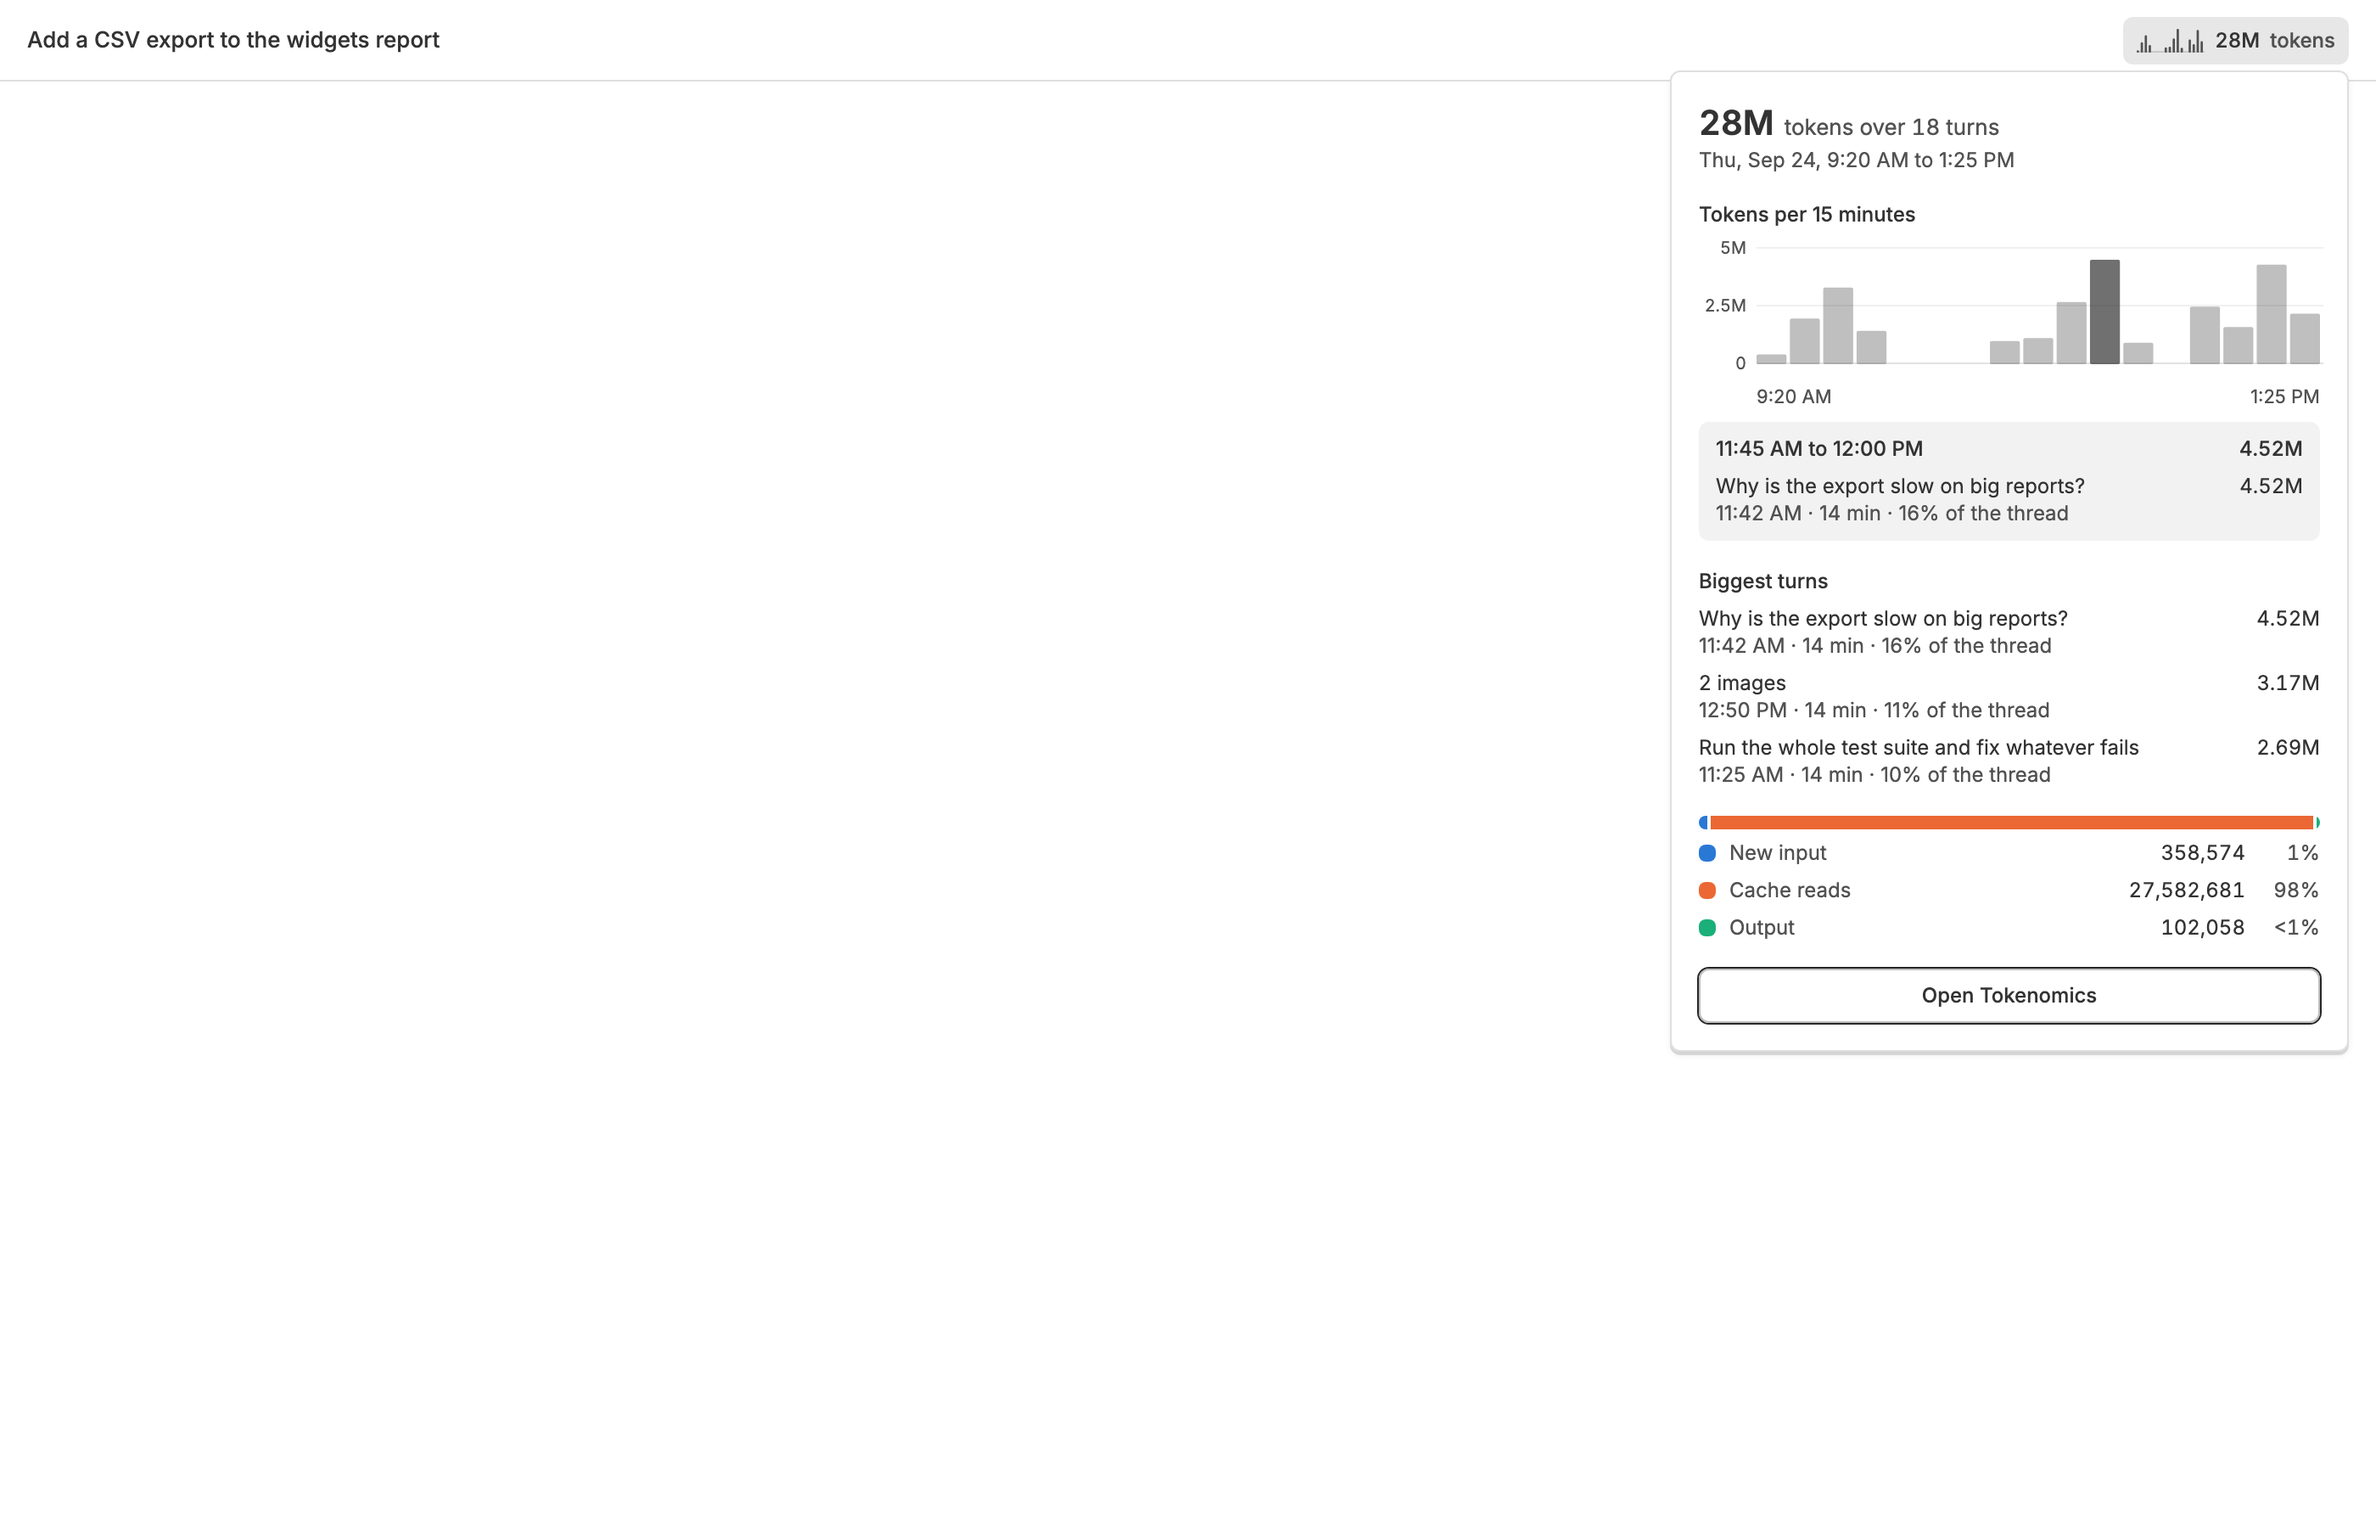
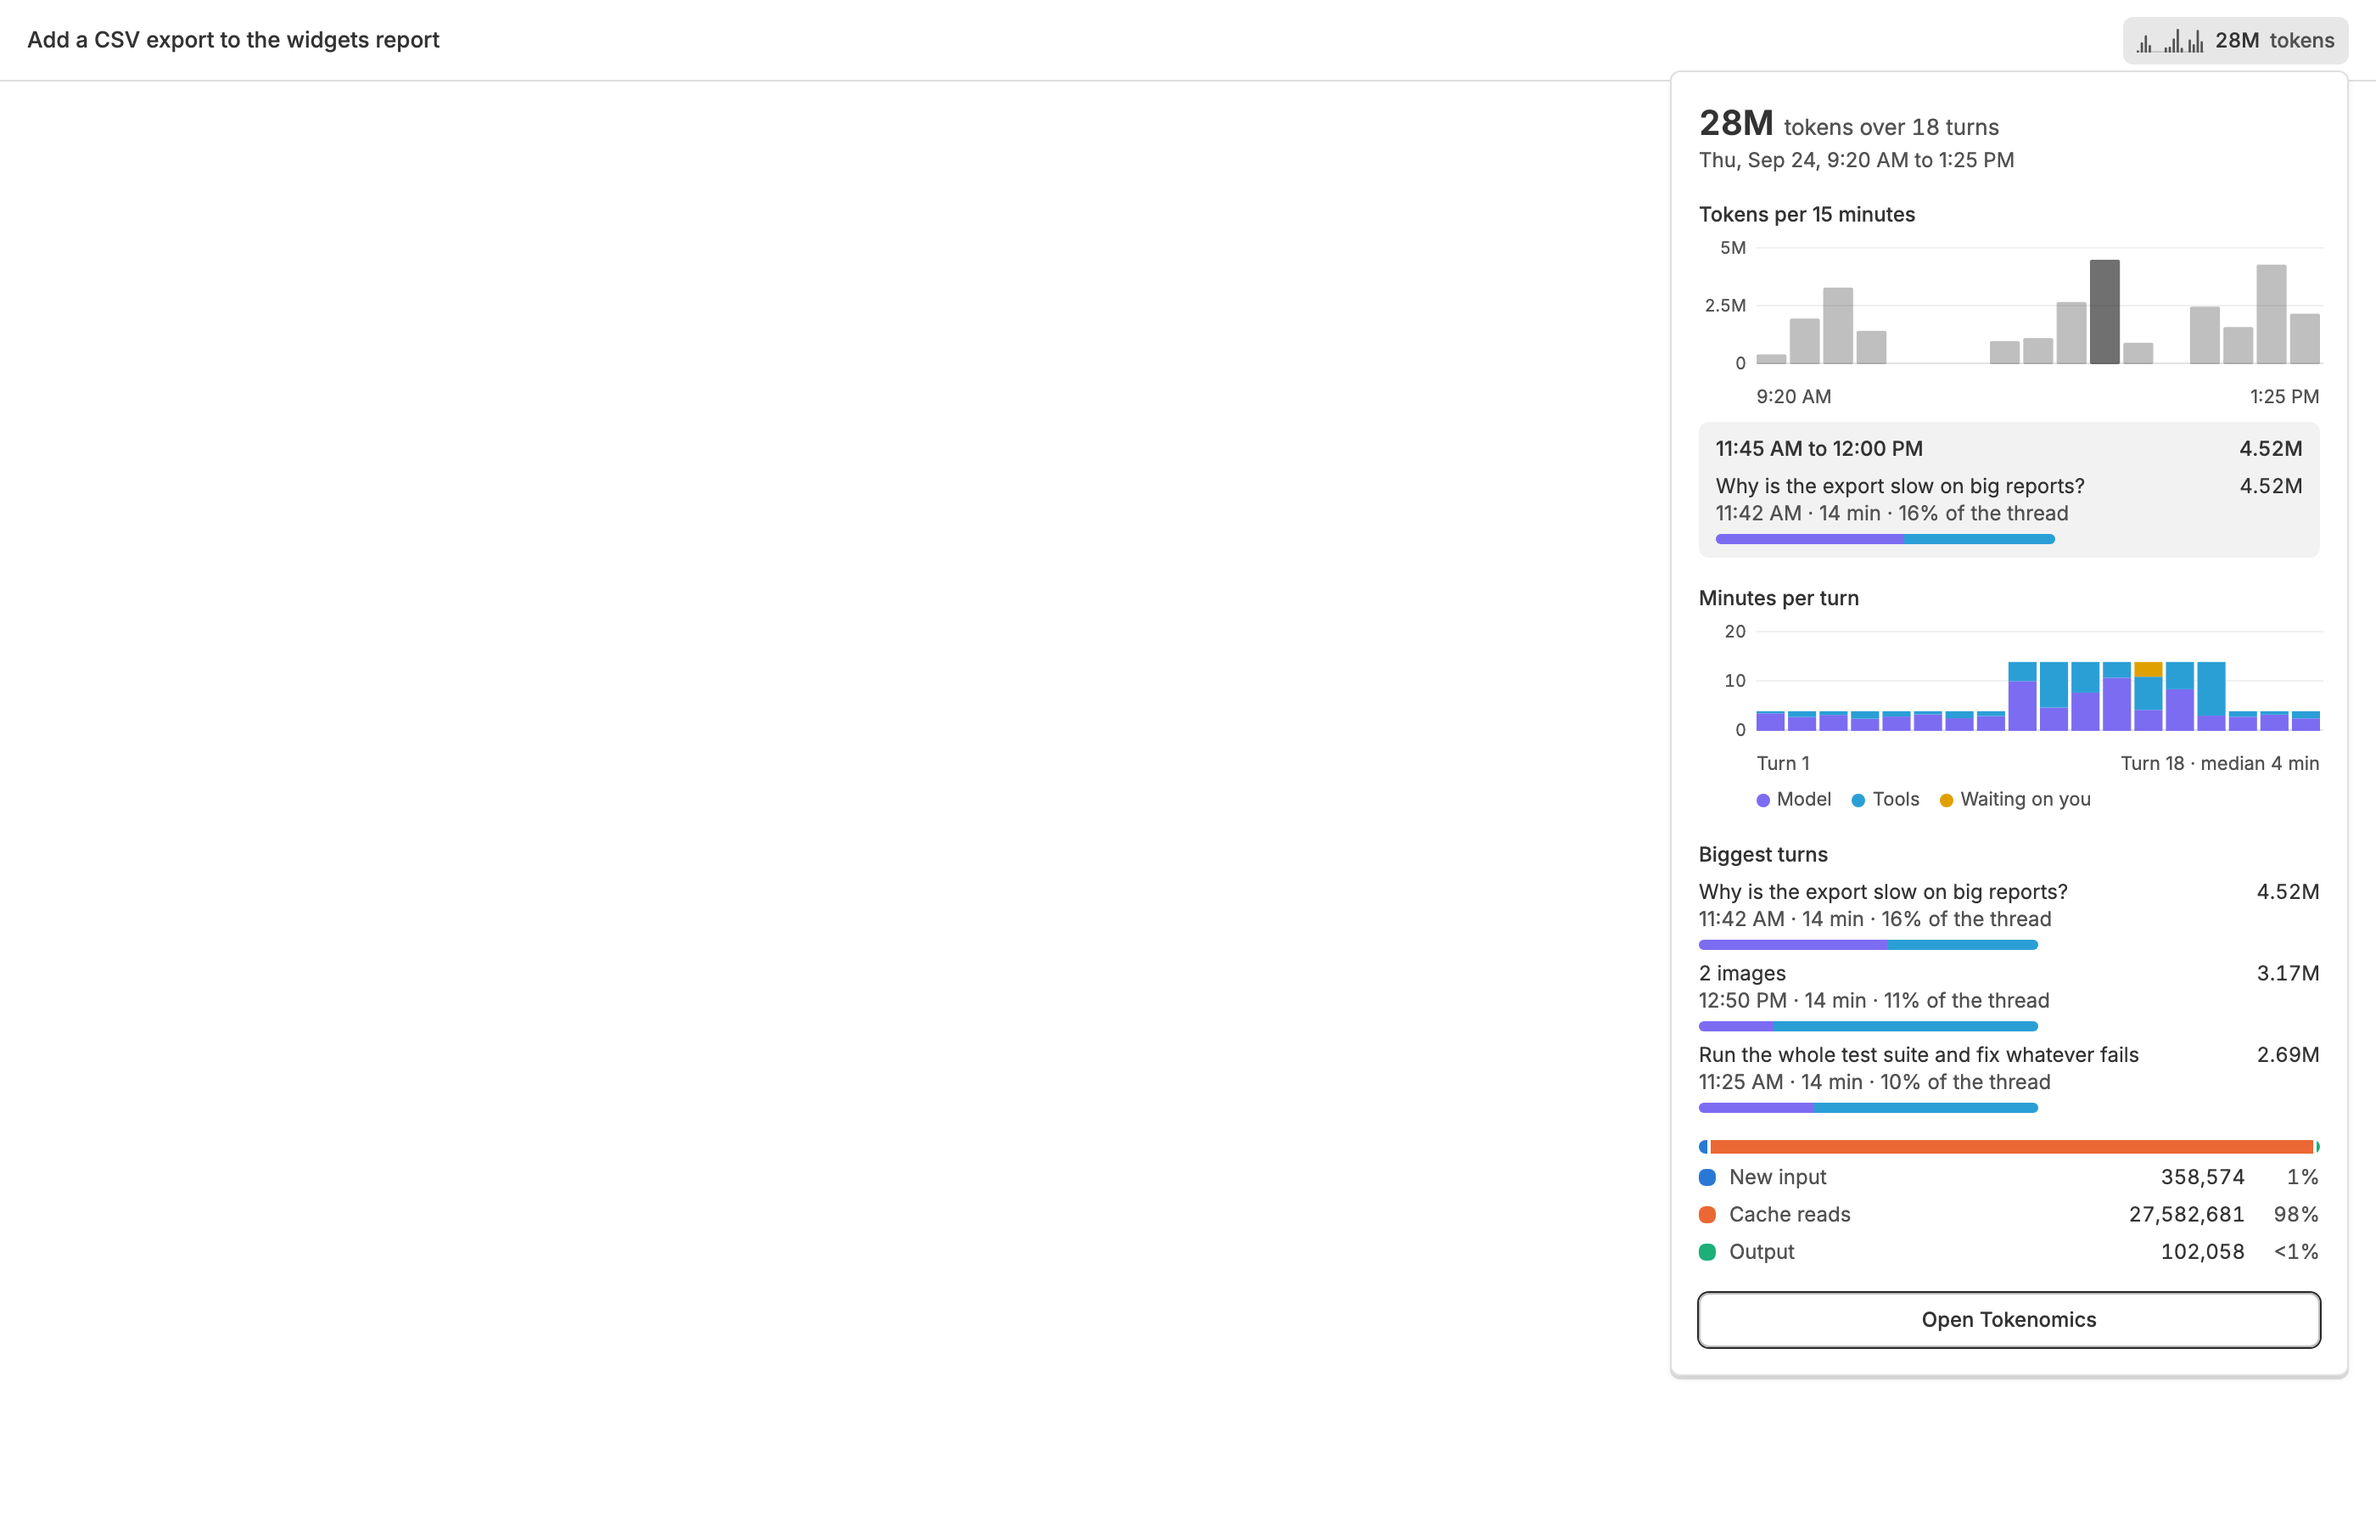
18d2c0a Chart minutes per turn in the thread header's summary
danielbachhuber/bb-plugins@18d2c0ac4142725ea51cef31500fa1e804e889a7

Captured with uncommitted changes in the bb-plugins checkout.

Changed region(s): [[0.7146, 0.3422, 0.9943, 0.84], [0.7146, 0.84, 0.9943, 0.9022], [0.9321, 0.6222, 0.9632, 0.6533]]

diff --git a/README.md b/README.md
@@ -21,7 +21,7 @@ small history while the visual history is still available.
 | [Super Diff](super-diff/README.md) | Review a branch one concern at a time. | 17 stories |
 | [sweep-ui](sweep-ui/README.md) | The list Issue Sweep, PR Sweep, and Review Sweep draw each tab with: summary squares, rows ordered Now, Next, and Later, and a stage track. | 3 stories |
 | [Thread Overview](thread-overview/README.md) | A band under each thread's header saying what the thread is for, what has been done so far, and which step it is on, written by the agent as it works and edited by you in place. | 1 story |
-| [Tokenomics](tokenomics/README.md) | Graphs how many tokens your threads used over the past day, three days, or week, lists each thread's share, puts a sparkline of each thread's token use over time in its header that opens a summary of which of your messages used the most, and shows a meter above a thread's composer once its context passes a size you set, with a button that compacts it. | 11 stories |
+| [Tokenomics](tokenomics/README.md) | Graphs how many tokens your threads used over the past day, three days, or week, lists each thread's share, puts a sparkline of each thread's token use over time in its header that opens a summary of which of your messages used the most tokens and time, and shows a meter above a thread's composer once its context passes a size you set, with a button that compacts it. | 11 stories |
 
 Each directory is a plugin or a shared package, named for the first part of
 its story titles. Its README describes it and shows each story, in the light

diff --git a/tokenomics/README.md b/tokenomics/README.md
@@ -2,7 +2,7 @@
 
 # Tokenomics
 
-Graphs how many tokens your threads used over the past day, three days, or week, lists each thread's share, puts a sparkline of each thread's token use over time in its header that opens a summary of which of your messages used the most, and shows a meter above a thread's composer once its context passes a size you set, with a button that compacts it.
+Graphs how many tokens your threads used over the past day, three days, or week, lists each thread's share, puts a sparkline of each thread's token use over time in its header that opens a summary of which of your messages used the most tokens and time, and shows a meter above a thread's composer once its context passes a size you set, with a button that compacts it.
 
 Source: [`bb-plugin-tokenomics`](https://github.com/danielbachhuber/bb-plugins/tree/main/bb-plugin-tokenomics)
 
